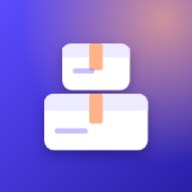
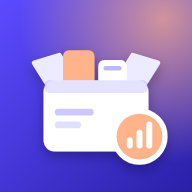
Íconos nuevos de Inventario (caja abierta con nivel de stock) y Presupuesto (billetera)
Claude-Session: https://claude.ai/code/session_01UJKThWLEJMYk1EX3qtWT1M

Changed region(s): [[0.1562, 0.2188, 0.875, 0.9062]]

diff --git a/apps/presupuesto/sw.js b/apps/presupuesto/sw.js
@@ -1,5 +1,5 @@
 // Orbe Apps · funciona sin internet: guarda la app en el teléfono y la actualiza cuando hay conexión
-const CACHE = 'presupuesto-v7';
+const CACHE = 'presupuesto-v8';
 const ARCHIVOS = ["./", "index.html", "presupuesto.js", "../base/app.css", "../base/app.js", "manifest.webmanifest", "icono.svg", "icono-192.png"];
 self.addEventListener('install', e => { e.waitUntil(caches.open(CACHE).then(c => c.addAll(ARCHIVOS)).then(() => self.skipWaiting())); });
 self.addEventListener('activate', e => { e.waitUntil(caches.keys().then(ks => Promise.all(ks.filter(k => k.startsWith('presupuesto-') && k !== CACHE).map(k => caches.delete(k)))).then(() => self.clients.claim())); });

diff --git a/apps/inventario/sw.js b/apps/inventario/sw.js
@@ -1,5 +1,5 @@
 // Orbe Apps · funciona sin internet: guarda la app en el teléfono y la actualiza cuando hay conexión
-const CACHE = 'inventario-v7';
+const CACHE = 'inventario-v8';
 const ARCHIVOS = ["./", "index.html", "inventario.js", "../base/app.css", "../base/app.js", "manifest.webmanifest", "icono.svg", "icono-192.png"];
 self.addEventListener('install', e => { e.waitUntil(caches.open(CACHE).then(c => c.addAll(ARCHIVOS)).then(() => self.skipWaiting())); });
 self.addEventListener('activate', e => { e.waitUntil(caches.keys().then(ks => Promise.all(ks.filter(k => k.startsWith('inventario-') && k !== CACHE).map(k => caches.delete(k)))).then(() => self.clients.claim())); });
